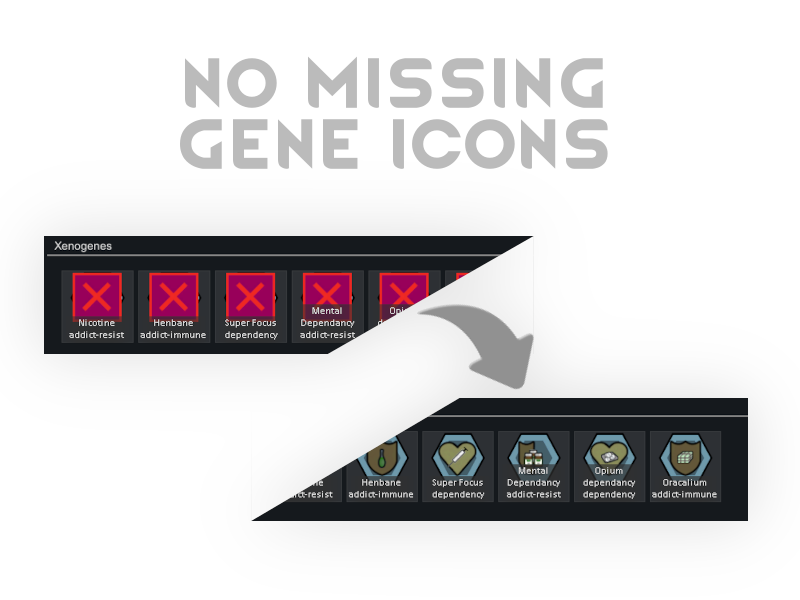
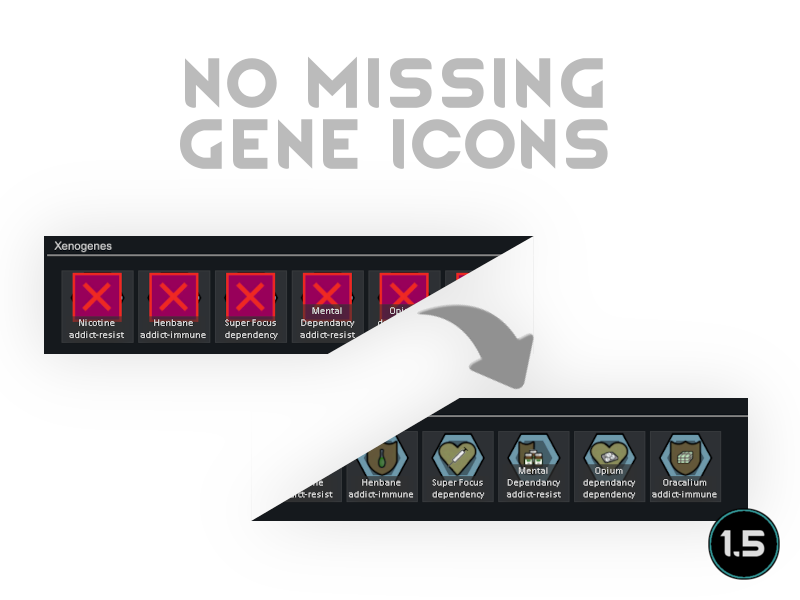
Mod updated for 1.5 and passed autotests

Changed region(s): [[0.875, 0.84, 1.0, 0.99]]

diff --git a/Source/NoMissingGeneIcons/Main.cs b/Source/NoMissingGeneIcons/Main.cs
@@ -1,4 +1,5 @@
 using System.Collections.Generic;
+using HarmonyLib;
 using RimWorld;
 using UnityEngine;
 using Verse;
@@ -8,7 +9,7 @@ namespace NoMissingGeneIcons;
 [StaticConstructorOnStartup]
 public static class Main
 {
-    private static readonly string[] genePrefixes = { "AddictionResistant", "AddictionImmune", "ChemicalDependency" };
+    private static readonly string[] genePrefixes = ["AddictionResistant", "AddictionImmune", "ChemicalDependency"];
 
     static Main()
     {
@@ -18,6 +19,7 @@ public static class Main
             return;
         }
 
+        var cachedIconField = AccessTools.Field(typeof(GeneDef), "cachedIcon");
         var fixedChemicals = new HashSet<string>();
         foreach (var chemicalDef in DefDatabase<ChemicalDef>.AllDefsListForReading)
         {
@@ -34,7 +36,7 @@ public static class Main
                     continue;
                 }
 
-                currentGeneDef.cachedIcon = generateChemicalIcon(chemicalDef, genePrefix);
+                cachedIconField.SetValue(currentGeneDef, generateChemicalIcon(chemicalDef, genePrefix));
                 fixedChemicals.Add(chemicalDef.LabelCap);
             }
         }

diff --git a/Source/NoMissingGeneIcons/ResizeTool.cs b/Source/NoMissingGeneIcons/ResizeTool.cs
@@ -22,7 +22,7 @@ SOFTWARE.
 // Texture2D.ReadPixels - https://docs.unity3d.com/ScriptReference/Texture2D.ReadPixels.html
 // Graphics.Blit - https://docs.unity3d.com/ScriptReference/Graphics.Blit.html
 
-/* This class allows you to resize an image on the GPU. 
+/* This class allows you to resize an image on the GPU.
 Resizing an image from 1024px to 8196px 100 times took this method: 00:00:40.8884790
 Resizing an image from 1024px to 8196px 100 times with Unity.Texture2D.Resize() took: 01:08:08.55
 */
@@ -40,7 +40,7 @@ public static class ResizeTool
         var rt = RenderTexture.GetTemporary(targetX, targetY, 0, RenderTextureFormat.ARGB32,
             RenderTextureReadWrite.Default);
 
-        //set the active RenderTexture to the temporary texture so we can read from it
+        //set the active RenderTexture to the temporary texture, so we can read from it
         RenderTexture.active = rt;
 
         //Copy the texture data on the GPU - this is where the magic happens [(;]

diff --git a/README.md b/README.md
@@ -1,6 +1,6 @@
 # NoMissingGeneIcons
 
-![Image](https://i.imgur.com/buuPQel.png)
+![Image](https://i.imgur.com/iCj5o7O.png)
 
 
 Will generate missing icons for ChemicalDefs so they do not get the default "missing icon" when autogenerated into possible genes.
@@ -10,27 +10,29 @@ All added chemicals in the game will generate three genes for drug-addicition an
 This mod iterates through all chemicals on game-start and for all genes based on that chemical it checks if the icon is missing. If so it generates an icon based on the default gene-icons for drugs overlayed with the icon of the first registered drug in the game that uses the chemical.
 
 Idea by: DisK
-Template graphics by: Scramster
+Template graphics by: Velcroboy 
 	
 
-![Image](https://i.imgur.com/O0IIlYj.png)
+![Image](https://i.imgur.com/Ds0rBAD.png)
 
 Since modding is just a hobby for me I expect no donations to keep modding. If you still want to show your support you can gift me anything from my https://store.steampowered.com/wishlist/id/Mlie]Wishlist or buy me a cup of tea.
 
-https://ko-fi.com/G2G55DDYD]![Image](https://i.imgur.com/Utx6OIH.png)
+https://ko-fi.com/G2G55DDYD]![Image](https://i.imgur.com/VWG0yff.png)
 
 
-![Image](https://i.imgur.com/PwoNOj4.png)
+![Image](https://i.imgur.com/5xwDG6H.png)
 
 
 
 -  See if the the error persists if you just have this mod and its requirements active.
 -  If not, try adding your other mods until it happens again.
--  Post your error-log using https://steamcommunity.com/workshop/filedetails/?id=818773962]HugsLib and command Ctrl+F12
+-  Post your error-log using https://steamcommunity.com/workshop/filedetails/?id=818773962]HugsLib or the standalone https://steamcommunity.com/sharedfiles/filedetails/?id=2873415404]Uploader and command Ctrl+F12
 -  For best support, please use the Discord-channel for error-reporting.
 -  Do not report errors by making a discussion-thread, I get no notification of that.
 -  If you have the solution for a problem, please post it to the GitHub repository.
+-  Use https://github.com/RimSort/RimSort/releases/latest]RimSort to sort your mods
 
 
 
+https://steamcommunity.com/sharedfiles/filedetails/changelog/2890795292]![Image](https://img.shields.io/github/v/release/emipa606/NoMissingGeneIcons?label=latest%20version&style=plastic&labelColor=0070cd&color=white)
 
